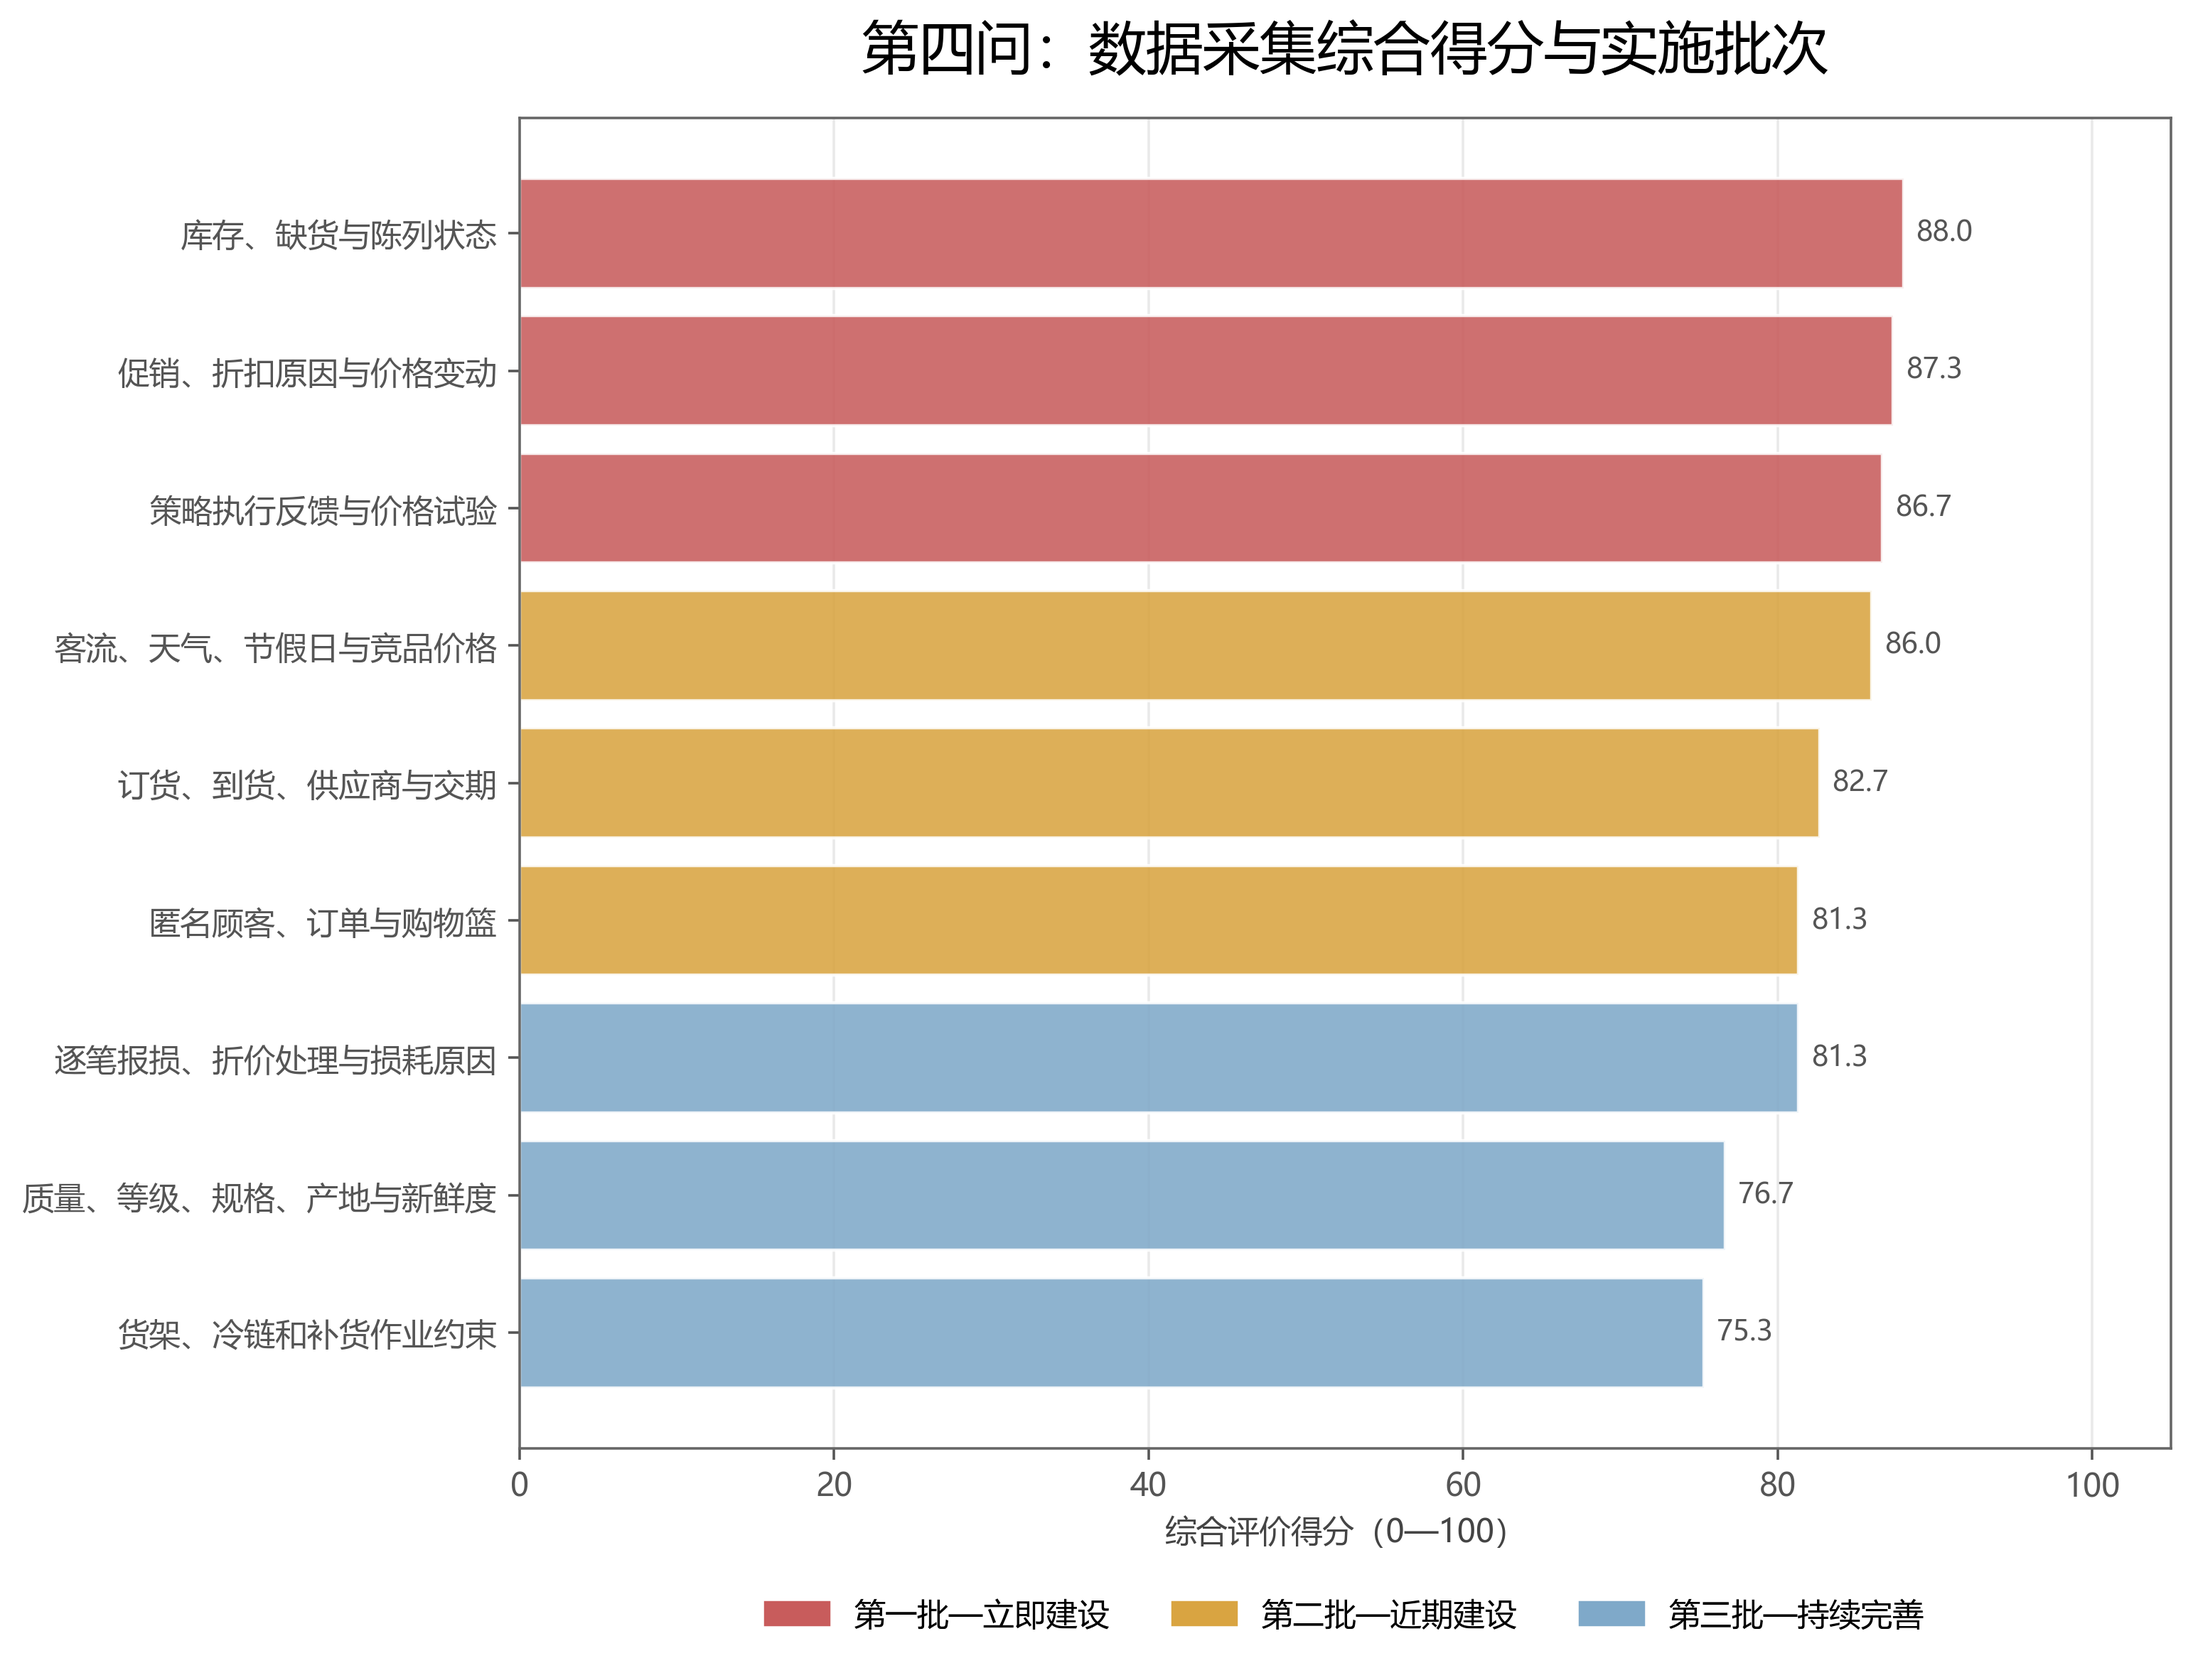
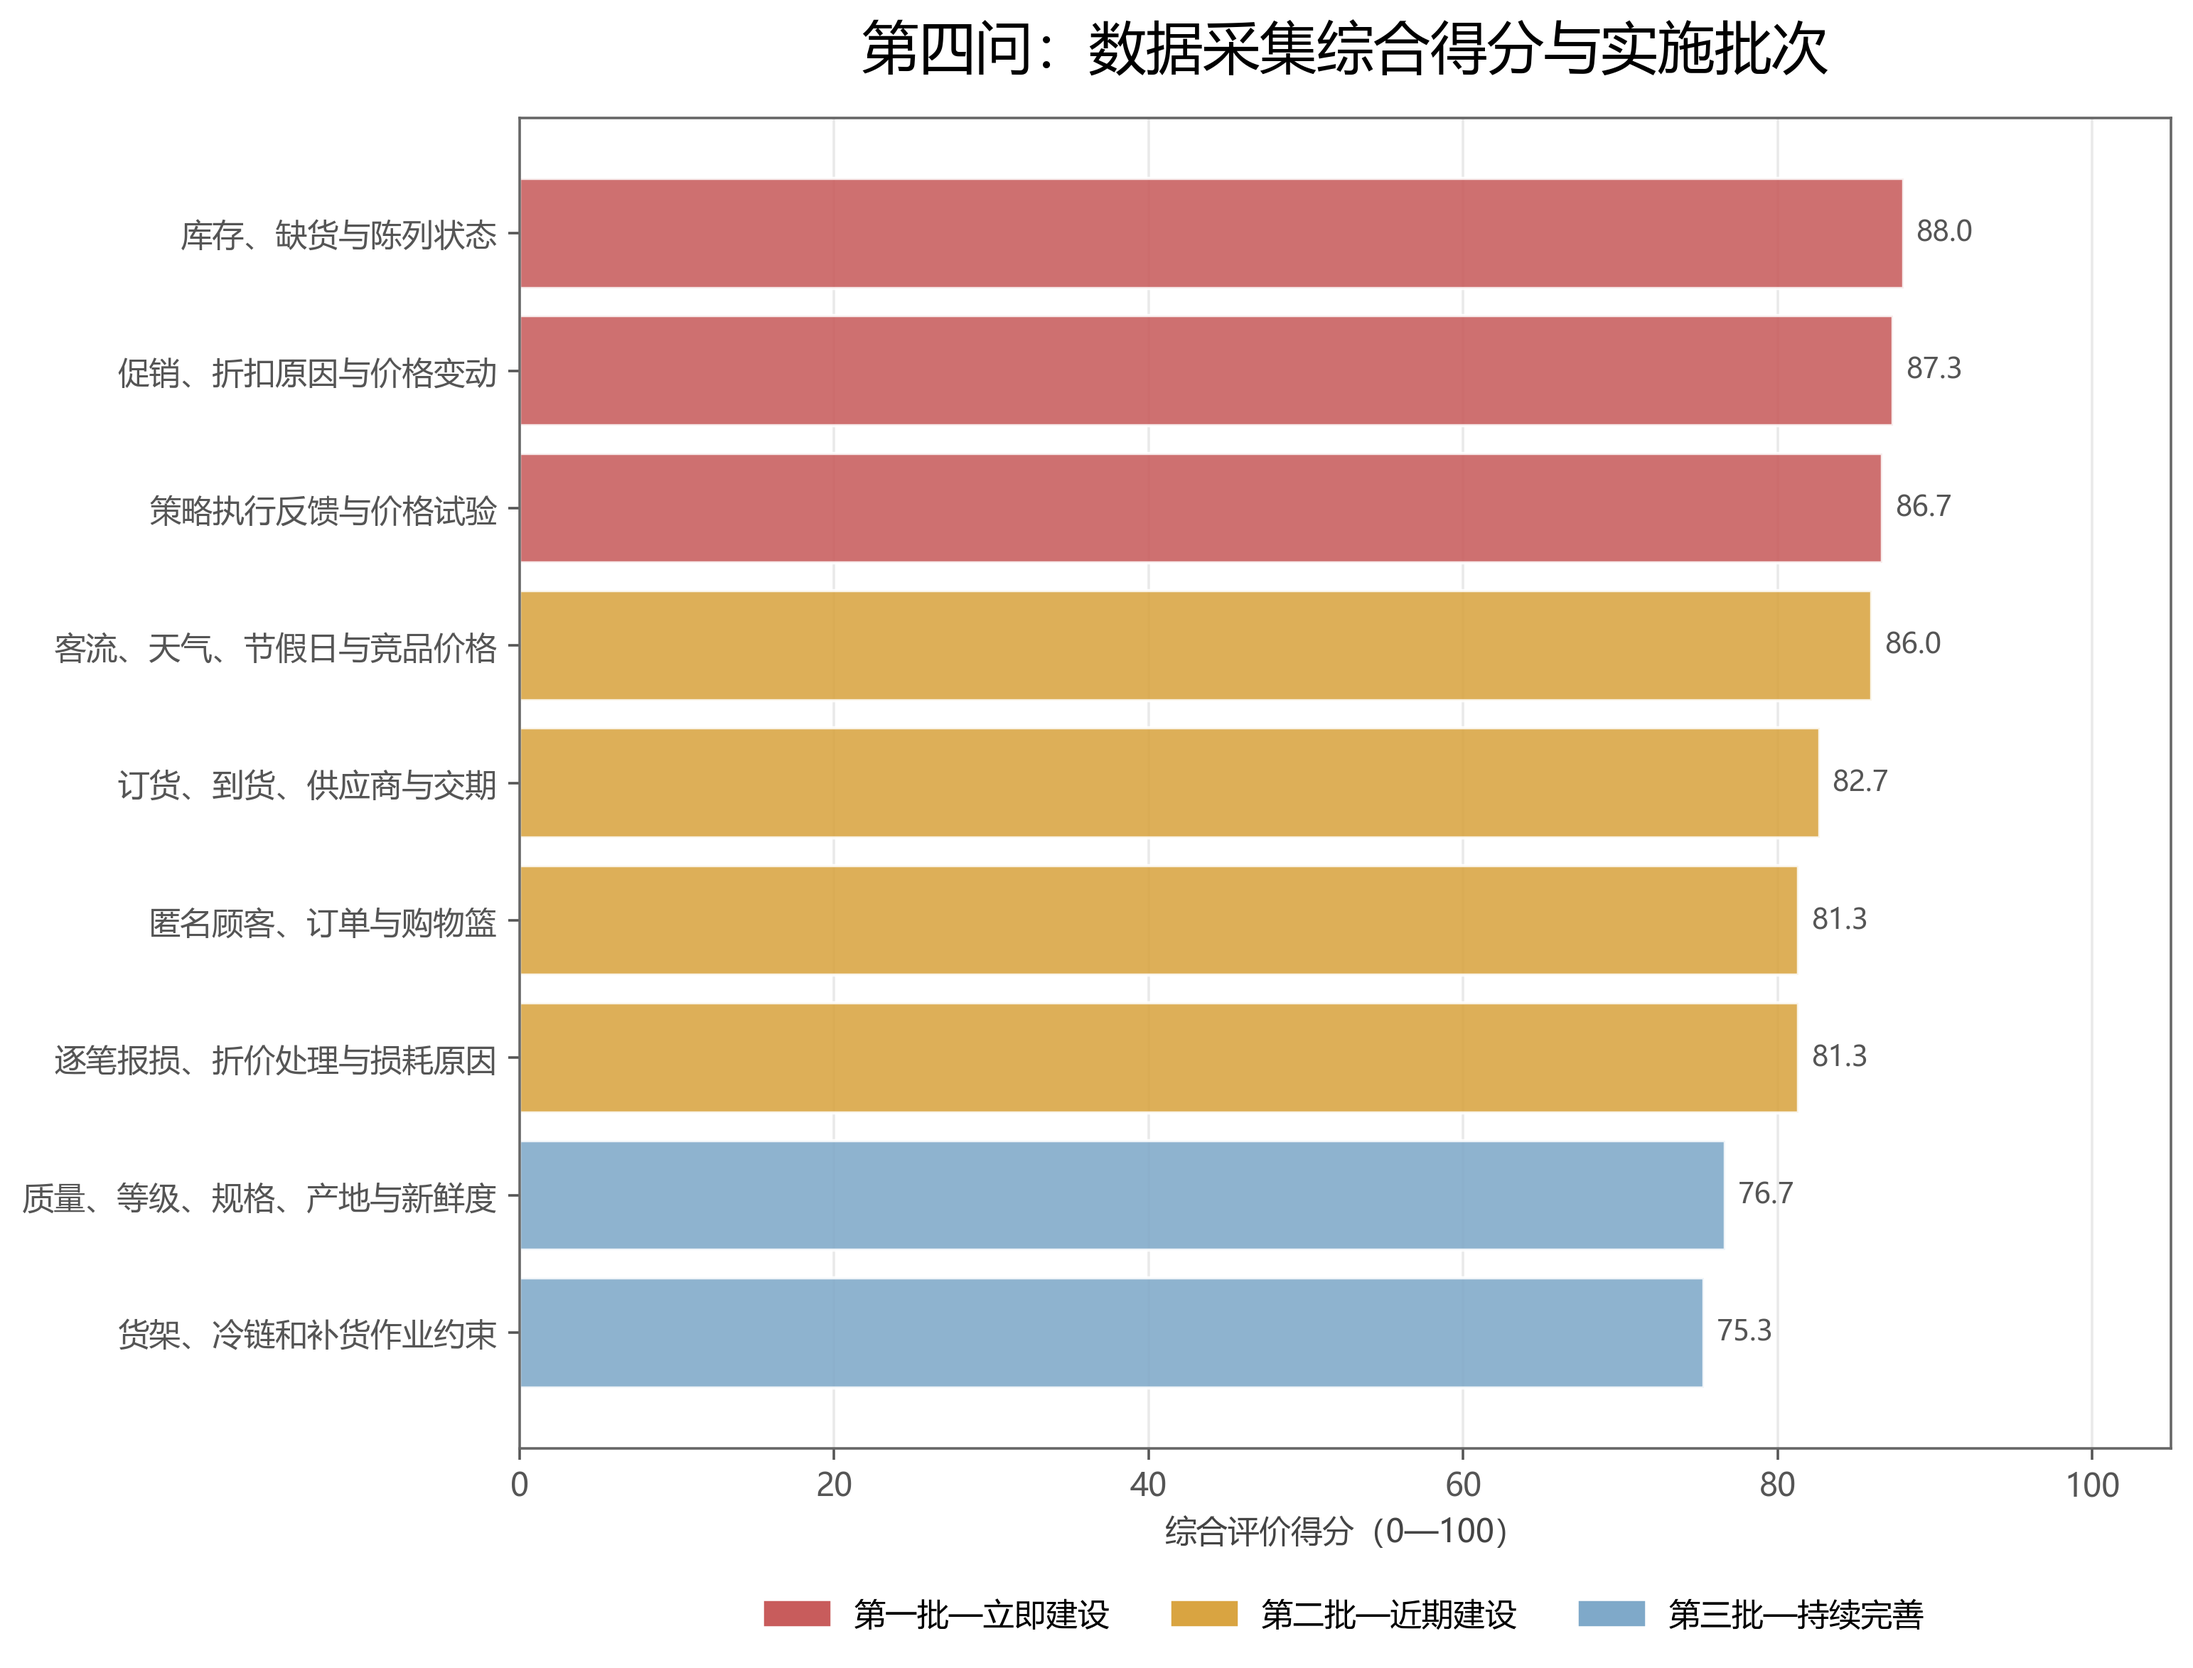
1

Changed region(s): [[0.2178, 0.591, 0.8402, 0.6843]]

diff --git a/python/第四问新.py b/python/第四问新.py
@@ -370,8 +370,14 @@ def score_priority(
             }
         )
     result = pd.DataFrame(rows)
-    result = result.sort_values("综合优先级得分", ascending=False).reset_index(drop=True)
-    result["综合排名"] = np.arange(1, len(result) + 1)
+    # 统一保留6位小数并采用并列排名，避免浮点末位差异导致同分项目被拆到不同批次。
+    result["综合优先级得分"] = result["综合优先级得分"].round(6)
+    result = result.sort_values(
+        ["综合优先级得分", "数据主题"],
+        ascending=[False, True],
+        kind="mergesort",
+    ).reset_index(drop=True)
+    result["综合排名"] = result["综合优先级得分"].rank(method="min", ascending=False).astype(int)
     result["实施批次"] = np.select(
         [result["综合排名"] <= 3, result["综合排名"] <= 6],
         ["第一批—立即建设", "第二批—近期建设"],
@@ -548,9 +554,9 @@ def build_score_notes() -> pd.DataFrame:
             },
             {
                 "指标": "实施批次",
-                "定义/公式": "按综合优先级得分排序，前3名/第4—6名/第7名以后",
+                "定义/公式": "采用并列排名后，排名≤3/4≤排名≤6/排名≥7",
                 "取值范围": "第一批/第二批/第三批",
-                "说明": "第一批立即建设，第二批近期建设，第三批持续完善；批次仅表示落地顺序，不再增加另一套分级。",
+                "说明": "同分项目共享名次并进入同一批次，因此批次数量不强制为3、3、3；批次仅表示落地顺序。",
             },
             {
                 "指标": "蒙特卡洛权重扰动",
@@ -711,7 +717,7 @@ def plot_monte_carlo(mc_df: pd.DataFrame) -> None:
     ax2.axvline(3.5, color="#888888", linestyle="--", linewidth=0.9, alpha=0.8)
     ax2.set_xlim(0.5, 9.5)
     ax2.set_xticks(np.arange(1, 10))
-    ax2.set_xlabel("平均排名及95%区间（越小越稳定）")
+    ax2.set_xlabel("平均排名（越靠左优先级越高，区间越窄越稳定）")
     ax2.set_title("综合排名的波动范围", fontsize=14, pad=12)
     ax2.grid(axis="x", color="#D8D8D8", alpha=0.55)
     ax2.set_axisbelow(True)
@@ -786,7 +792,7 @@ def write_model_note(
         "|---|---:|---:|---:|---:|",
         *impact_rows,
         "",
-        f"按照基准权重，9类数据均具有较高综合建设价值。为给出可执行的实施顺序，按综合得分划分批次：第一批立即建设{first_text}；第二批近期建设{second_text}；第三批持续完善{third_text}。结合本次排序，第一批重点纠正需求观测偏差并完善价格与策略执行反馈；第二批重点补充外生需求因素、真实采购约束和消费关联；第三批重点完善损耗事实、质量异质性和门店运营约束。",
+        f"按照基准权重，9类数据均具有较高综合建设价值。为给出可执行的实施顺序，按综合得分划分批次：第一批立即建设{first_text}；第二批近期建设{second_text}；第三批持续完善{third_text}。同分项目采用并列排名，因此批次数量不强制为3、3、3。结合本次排序，第一批重点纠正需求观测偏差并完善价格与策略执行反馈；第二批重点补充外生需求因素、真实采购约束和消费关联；第三批重点完善损耗事实、质量异质性和门店运营约束。",
         "",
         "## 5. 对前三问的具体帮助",
         "",

diff --git a/python/第四问新/第四问新_建模说明.md b/python/第四问新/第四问新_建模说明.md
@@ -36,7 +36,7 @@ $$P_r=100(0.40I_r+0.30G_r+0.20F_r+0.10U_r).$$
 | 客流、天气、节假日与竞品价格 | 第二批—近期建设 | 86.0 | 0.0% | 小时/日度 |
 | 订货、到货、供应商与交期 | 第二批—近期建设 | 82.7 | 0.0% | 每笔订单/到货时 |
 | 匿名顾客、订单与购物篮 | 第二批—近期建设 | 81.3 | 0.0% | 每笔订单 |
-| 逐笔报损、折价处理与损耗原因 | 第三批—持续完善 | 81.3 | 0.0% | 每次处置时 |
+| 逐笔报损、折价处理与损耗原因 | 第二批—近期建设 | 81.3 | 0.0% | 每次处置时 |
 | 质量、等级、规格、产地与新鲜度 | 第三批—持续完善 | 76.7 | 0.0% | 到货时/每日盘点 |
 | 货架、冷链和补货作业约束 | 第三批—持续完善 | 75.3 | 0.0% | 日度/变更时 |
 
@@ -54,7 +54,7 @@ $$P_r=100(0.40I_r+0.30G_r+0.20F_r+0.10U_r).$$
 | 质量、等级、规格、产地与新鲜度 | 2 | 3 | 5 | 3.33 |
 | 货架、冷链和补货作业约束 | 1 | 2 | 5 | 2.67 |
 
-按照基准权重，9类数据均具有较高综合建设价值。为给出可执行的实施顺序，按综合得分划分批次：第一批立即建设库存、缺货与陈列状态、促销、折扣原因与价格变动、策略执行反馈与价格试验；第二批近期建设客流、天气、节假日与竞品价格、订货、到货、供应商与交期、匿名顾客、订单与购物篮；第三批持续完善逐笔报损、折价处理与损耗原因、质量、等级、规格、产地与新鲜度、货架、冷链和补货作业约束。结合本次排序，第一批重点纠正需求观测偏差并完善价格与策略执行反馈；第二批重点补充外生需求因素、真实采购约束和消费关联；第三批重点完善损耗事实、质量异质性和门店运营约束。
+按照基准权重，9类数据均具有较高综合建设价值。为给出可执行的实施顺序，按综合得分划分批次：第一批立即建设库存、缺货与陈列状态、促销、折扣原因与价格变动、策略执行反馈与价格试验；第二批近期建设客流、天气、节假日与竞品价格、订货、到货、供应商与交期、匿名顾客、订单与购物篮、逐笔报损、折价处理与损耗原因；第三批持续完善质量、等级、规格、产地与新鲜度、货架、冷链和补货作业约束。同分项目采用并列排名，因此批次数量不强制为3、3、3。结合本次排序，第一批重点纠正需求观测偏差并完善价格与策略执行反馈；第二批重点补充外生需求因素、真实采购约束和消费关联；第三批重点完善损耗事实、质量异质性和门店运营约束。
 
 ## 5. 对前三问的具体帮助
 
